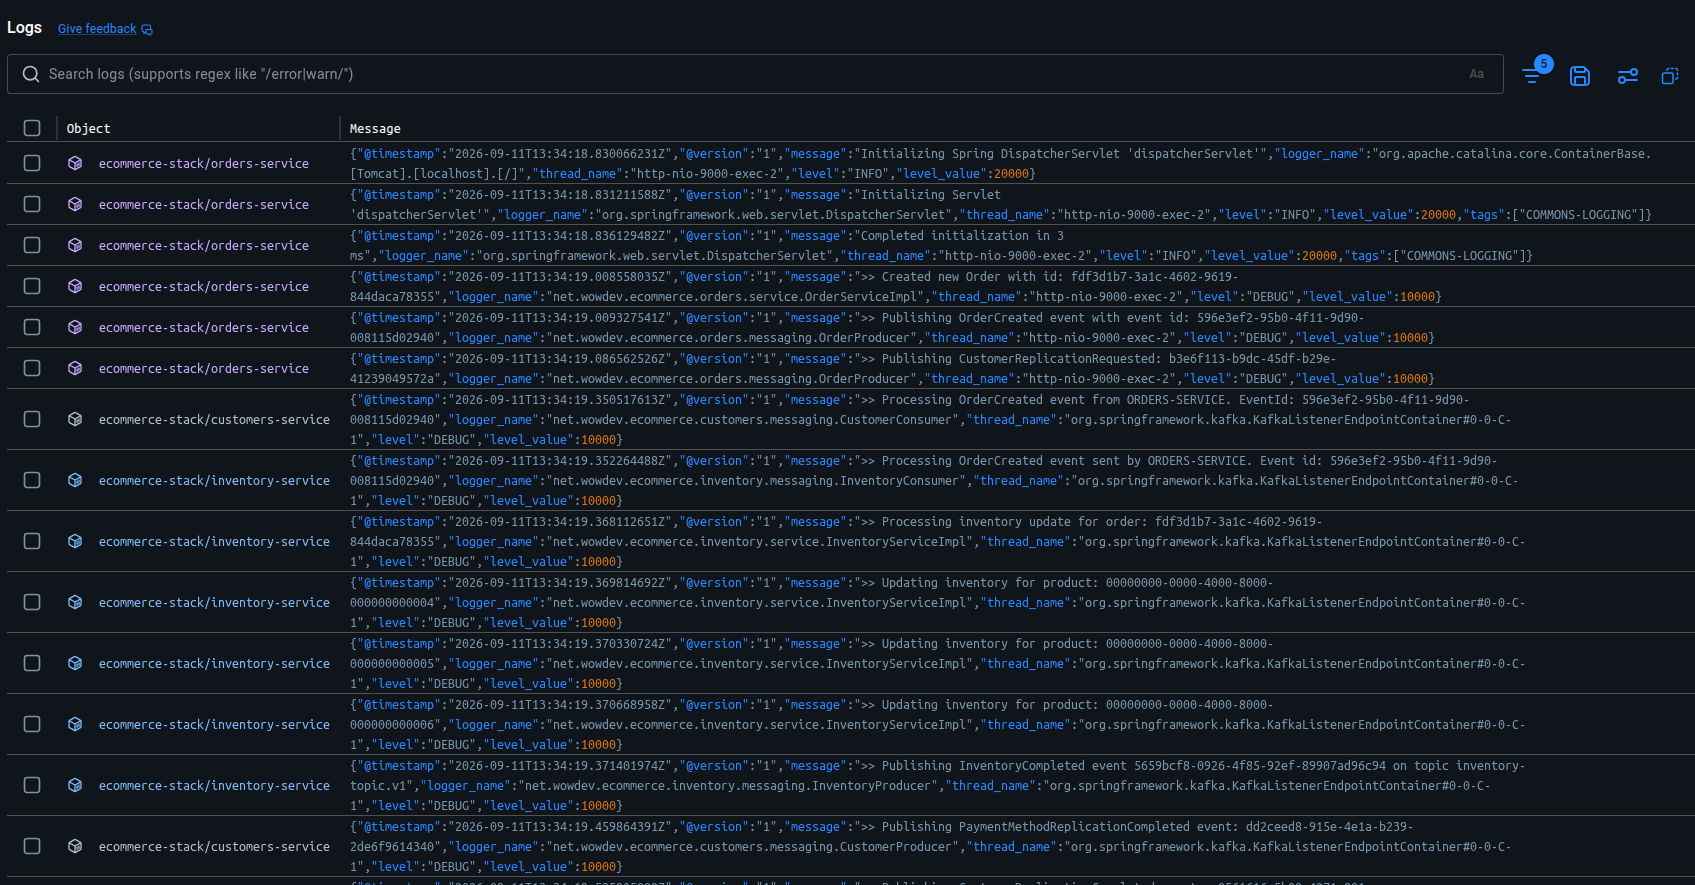
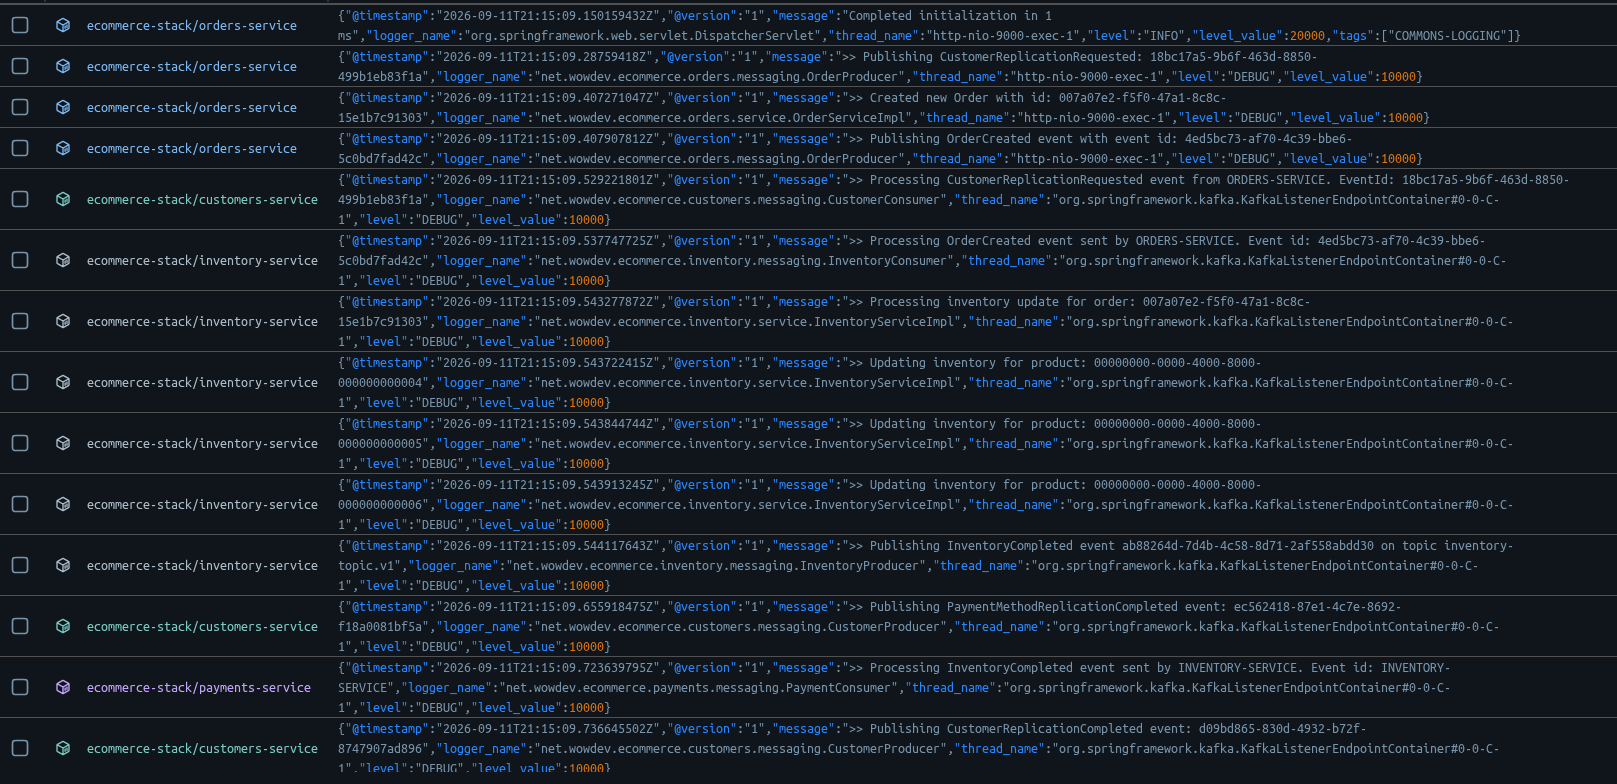
Adding resources for documentation

Changed region(s): [[0.0, 0.0, 0.9895, 1.0]]

diff --git a/src/main/java/net/wowdev/ecommerce/orders/service/OrderServiceImpl.java b/src/main/java/net/wowdev/ecommerce/orders/service/OrderServiceImpl.java
@@ -26,8 +26,8 @@ public class OrderServiceImpl implements OrderService {
 
   private static final String ORIGIN_SERVICE = "ORDERS-SERVICE";
 
-  private final OrderRepository orderRepository;
-  private final OrderProducer orderProducer;
+  private final OrderRepository repository;
+  private final OrderProducer producer;
 
   @Value("${business.config.vat-rate}")
   private Double vatRate;
@@ -38,7 +38,7 @@ public class OrderServiceImpl implements OrderService {
   @Override
   @Transactional(readOnly = true)
   public OrderDTO findById(final UUID id) {
-    return orderRepository
+    return repository
         .findById(id)
         .map(OrderMapper::toDto)
         .orElseThrow(() -> new OrderNotFoundException("Order not found: " + id));
@@ -47,14 +47,14 @@ public class OrderServiceImpl implements OrderService {
   @Override
   @Transactional(readOnly = true)
   public Page<OrderDTO> findAll(final Pageable pageable) {
-    return orderRepository.findAll(pageable).map(OrderMapper::toDto);
+    return repository.findAll(pageable).map(OrderMapper::toDto);
   }
 
   @Override
   @Transactional
   public OrderDTO update(final UUID id, final OrderDTO order) {
     OrderEntity current =
-        orderRepository
+        repository
             .findById(id)
             .orElseThrow(() -> new OrderNotFoundException("Order not found: " + id));
     OrderDTO replacement = OrderMapper.toDto(current);
@@ -66,16 +66,16 @@ public class OrderServiceImpl implements OrderService {
     replacement.setOrderAmount(order.getOrderAmount());
     replacement.setTaxAmount(order.getTaxAmount());
     replacement.setDiscountAmount(order.getDiscountAmount());
-    return OrderMapper.toDto(orderRepository.save(OrderMapper.toEntity(replacement)));
+    return OrderMapper.toDto(repository.save(OrderMapper.toEntity(replacement)));
   }
 
   @Override
   @Transactional
   public void delete(final UUID id) {
-    if (!orderRepository.existsById(id)) {
+    if (!repository.existsById(id)) {
       throw new OrderNotFoundException("Order not found: " + id);
     }
-    orderRepository.deleteById(id);
+    repository.deleteById(id);
   }
 
   @Override
@@ -83,7 +83,7 @@ public class OrderServiceImpl implements OrderService {
   public void cancel(OrderDTO orderDTO, String reason) {
     log.debug("Canceling order {} for the reason: {}", orderDTO.getId(), reason);
     orderDTO.setOrderStatus(OrderStatus.CANCELLED);
-    orderRepository.save(OrderMapper.toEntity(orderDTO));
+    repository.save(OrderMapper.toEntity(orderDTO));
   }
 
   @Override
@@ -104,12 +104,15 @@ public class OrderServiceImpl implements OrderService {
     }
     calculateOrderAmounts(orderDTO);
 
-    final OrderEntity savedOrderEntity = orderRepository.save(OrderMapper.toEntity(orderDTO));
+    // notify Customers services to pre-load customer data for this order
+    publishCustomerReplicationRequested(orderDTO);
+
+    final OrderEntity savedOrderEntity = repository.save(OrderMapper.toEntity(orderDTO));
     log.debug(">> Created new Order with id: {}", savedOrderEntity.getId());
     final OrderDTO savedOrderDTO = OrderMapper.toDto(savedOrderEntity);
 
     publishOrderCreated(savedOrderDTO);
-    publishOrderProcessingStarted(savedOrderDTO);
+
     return savedOrderDTO;
   }
 
@@ -117,7 +120,7 @@ public class OrderServiceImpl implements OrderService {
   @Override
   public void complete(final OrderDTO orderDTO) {
     orderDTO.setOrderStatus(OrderStatus.CREATED);
-    orderRepository.save(OrderMapper.toEntity(orderDTO));
+    repository.save(OrderMapper.toEntity(orderDTO));
     log.debug(">> Order process successfully finished: {}. Order status: {}",
         orderDTO.getId(),
         orderDTO.getOrderStatus());
@@ -149,10 +152,10 @@ public class OrderServiceImpl implements OrderService {
             Instant.now(),
             OrderProducer.ORIGIN_SERVICE);
     // TODO: persist event before publishing (outbox pattern)
-    orderProducer.publish(event);
+    producer.publish(event);
   }
 
-  protected void publishOrderProcessingStarted(OrderDTO orderDTO) {
+  protected void publishCustomerReplicationRequested(OrderDTO orderDTO) {
     CustomerReplicationRequested event =
         new CustomerReplicationRequested(
             UUID.randomUUID(),
@@ -160,7 +163,7 @@ public class OrderServiceImpl implements OrderService {
             orderDTO,
             Instant.now(),
             ORIGIN_SERVICE);
-    orderProducer.publish(event);
+    producer.publish(event);
   }
 
 }

diff --git a/src/main/java/net/wowdev/ecommerce/orders/messaging/OrderProducer.java b/src/main/java/net/wowdev/ecommerce/orders/messaging/OrderProducer.java
@@ -12,7 +12,6 @@ import org.springframework.transaction.event.TransactionalEventListener;
 @Component
 @Slf4j
 public class OrderProducer {
-
   public static final String ORIGIN_SERVICE = "ORDERS-SERVICE";
   private final KafkaTemplate<String, Object> template;
   private final String ordersTopic;
